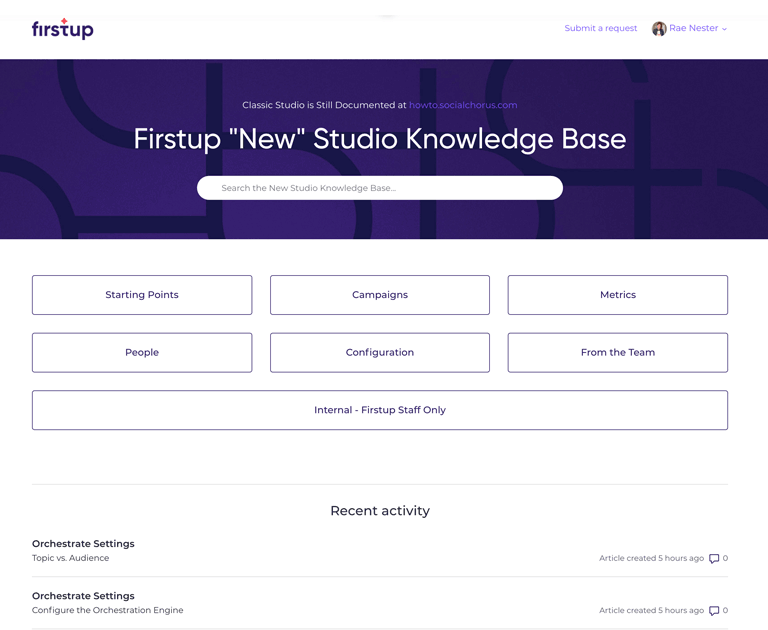
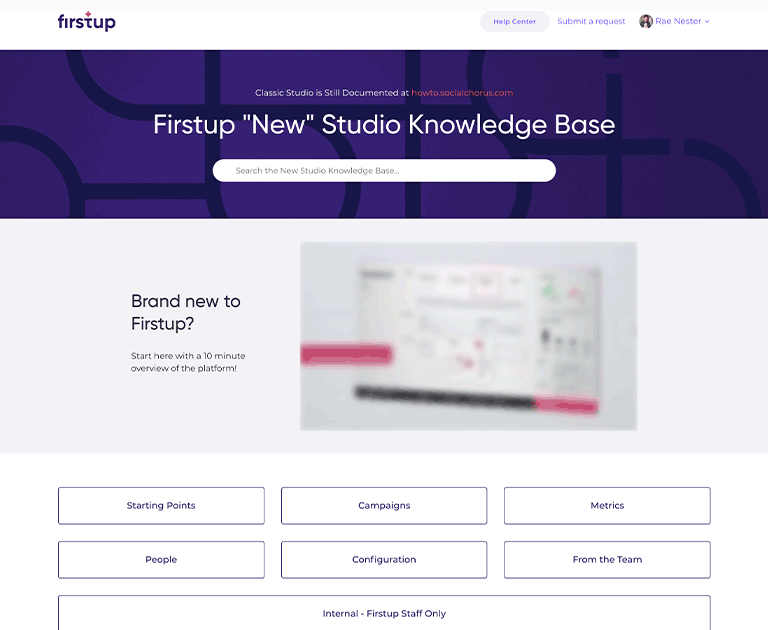
Update thumbnail and feature alignment

diff --git a/style.css b/style.css
@@ -17,17 +17,7 @@ Firstup Brand Text Colors
 - link lilac #a27efc
 */
 
-/* Import Gilroy Heading */
-/* Zendesk
-@font-face {
-   font-family: 'Gilroy';
-   src: url('$assets-GilroyMedium-woff2') format('woff2'),
-          url('$assets-GilroyMedium-woff') format('woff');
-   font-weight: normal;
-   font-style: normal;
-}
-*/
-
+/* Import Gilroy Heading Fonts */
 @font-face{
     font-family:'Gilroy';
     font-style:normal;
@@ -36,7 +26,6 @@ Firstup Brand Text Colors
     src:url(https://firstup.io/wp-content/uploads/2021/09/GilroyMedium.woff2) format('woff2'),
       url(https://firstup.io/wp-content/uploads/2021/09/GilroyMedium.woff) format('woff');
 }
-
 @font-face{
   font-family:'Gilroy';
   font-style:normal;
@@ -4866,26 +4855,40 @@ html[dir="rtl"] .notification-left-aligned {
   margin-bottom: 40px;
 }
 
-@media (min-width: 768px) {
-  .feature-banner {
-    margin-top: -60px;
-    margin-bottom: 60px;
-  }
-}
-
-.feature-banner .container {
-  display: flex;
-  max-width: 900px;
-  align-items: center;
-}
-
 .intro-text {
-  width: calc(100% / 3 * 1);
+  width: 100%;
   padding-right: 40px;
 }
 
 .intro-content {
-  width: calc(100% / 3 * 2);
+  width: 100%;
+}
+
+@media (min-width: 768px) {
+  .feature-banner .container {
+    display: flex;
+    align-items: center;
+  }
+  .intro-text {
+    width: calc(100% / 3 * 1);
+  }
+
+  .intro-content {
+    width: calc(100% / 3 * 2);
+  }
+}
+
+@media (min-width: 1024px) {
+  .feature-banner {
+    margin-top: -60px;
+    margin-bottom: 60px;
+  }
+  .feature-banner .container {
+    max-width: 900px;
+  }
+  .feature-banner h2 {
+    font-size: 32px
+  }
 }
 
 .article table {
